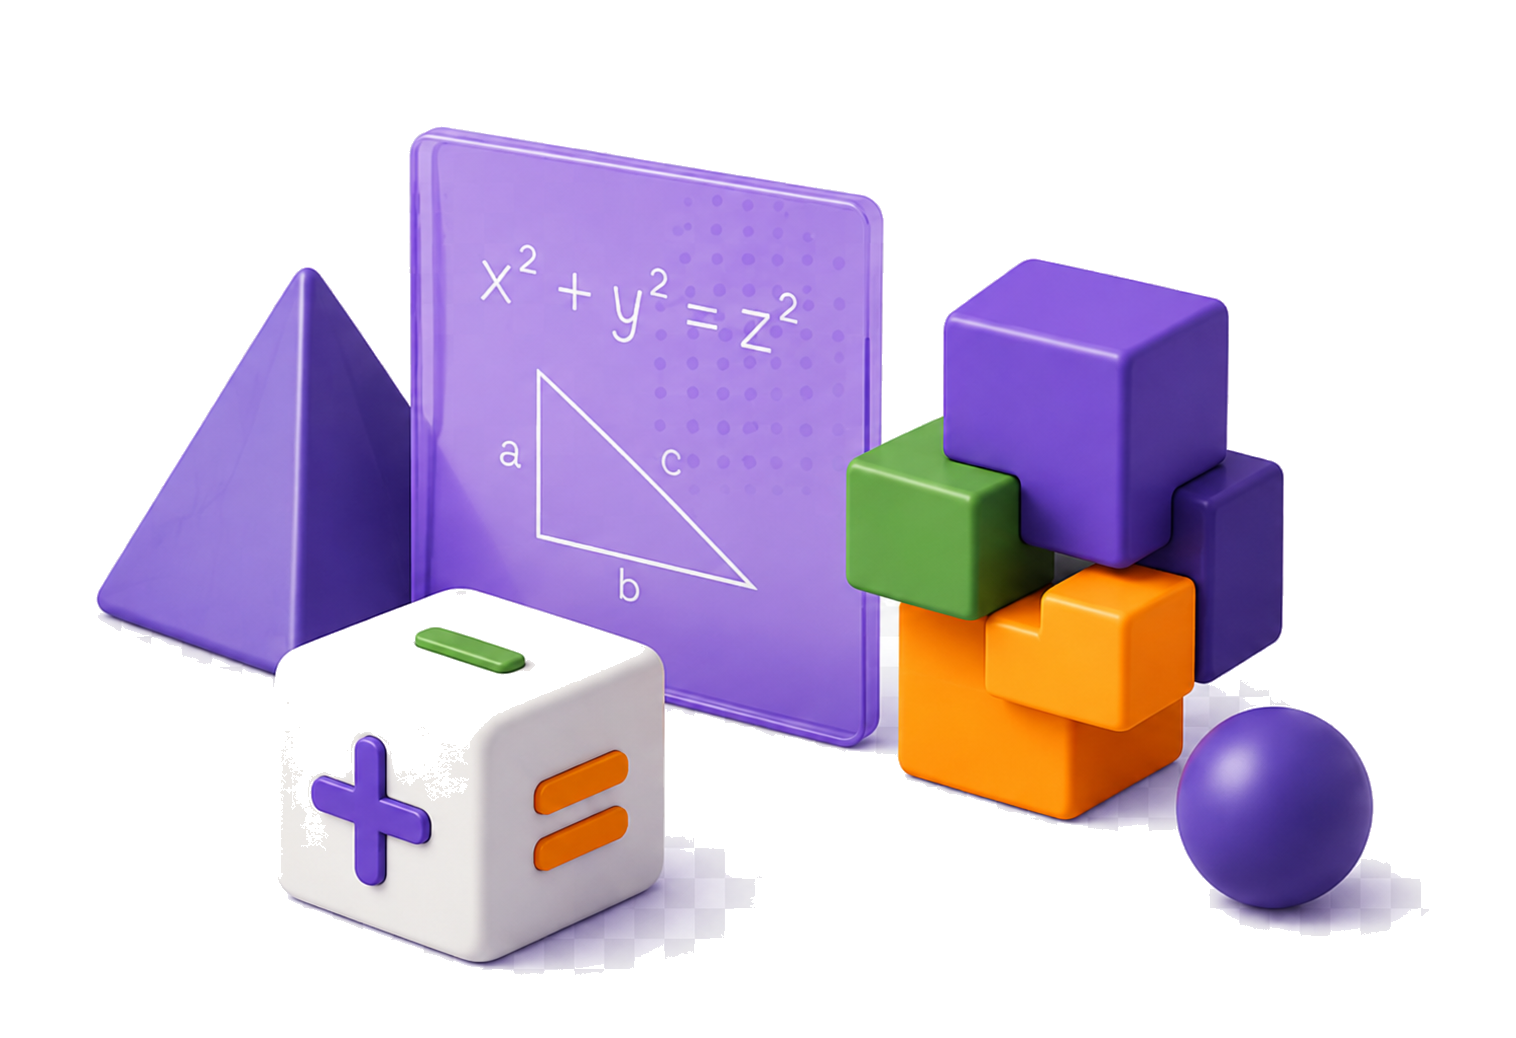
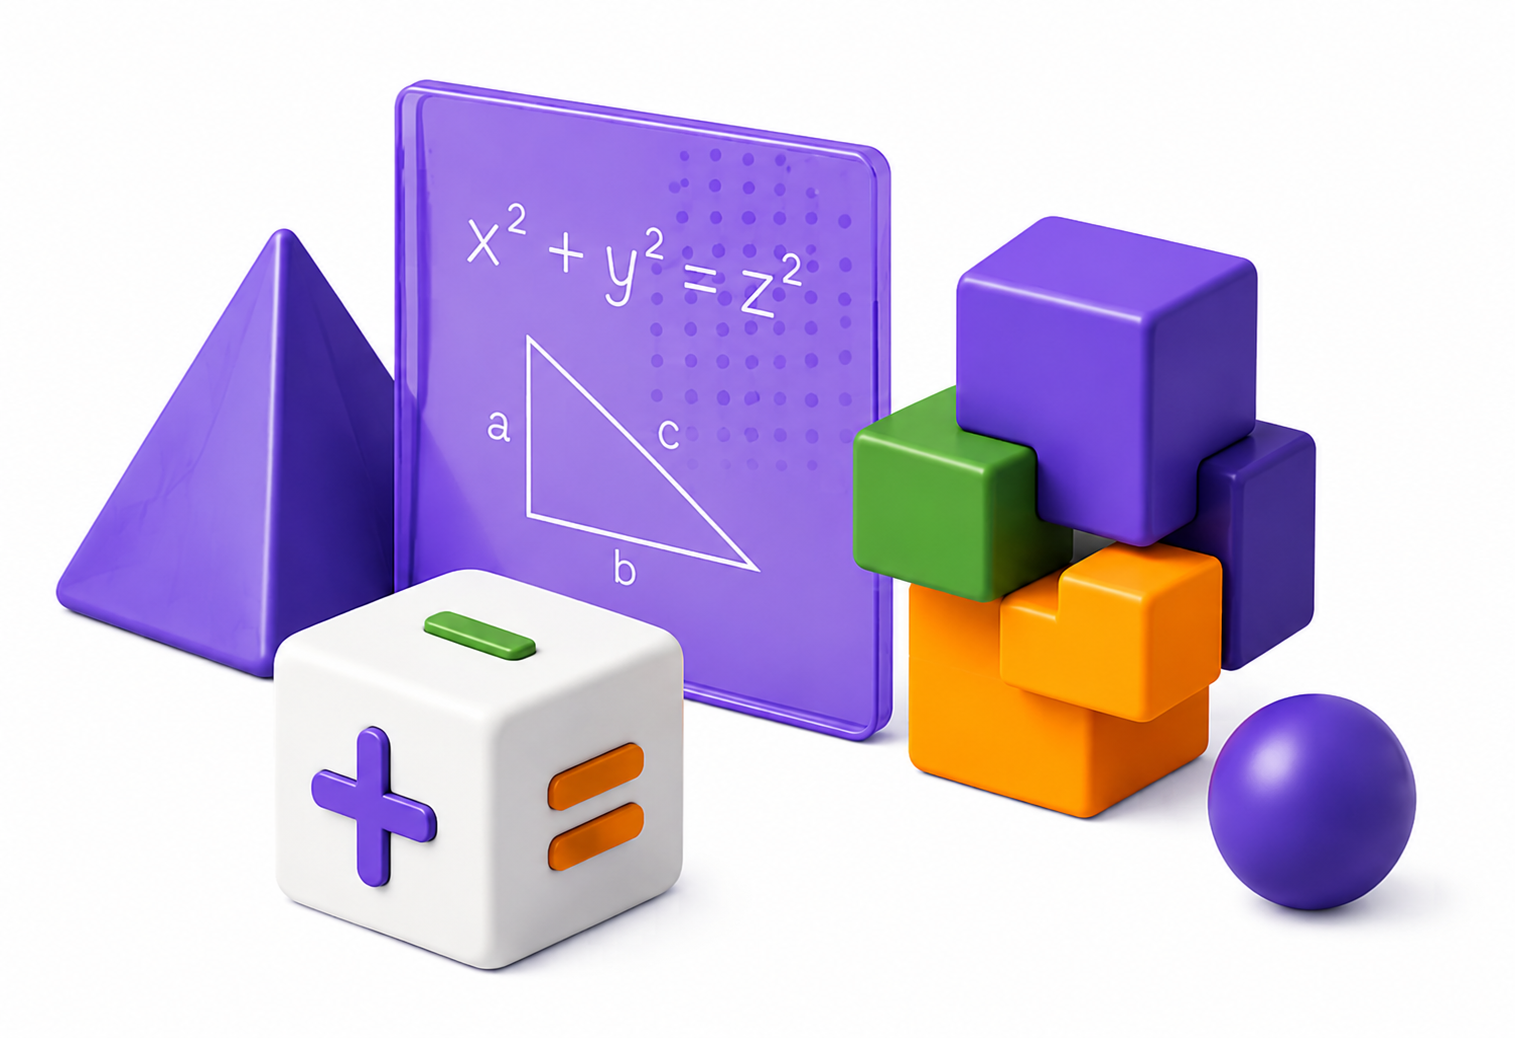
samostoyatelnaya-oplata-osen: новая иллюстрация героя, 3D-иконки программ, оранжевые кнопки
- Герой: чистая иллюстрация с мягким растворением краёв и скруглением
- Выделен цветом заголовок, широкая оранжевая кнопка «Выбрать программу»
- Первая фраза подзаголовка — в одну строку; убран лишний текст блока программ
- Белый фон страницы
- Карточки программ: 3D-иконки, все кнопки «Оплатить сентябрь» оранжевые с градиентом

Changed region(s): [[0.031, 0.0617, 0.9617, 0.9557], [0.1861, 0.8632, 0.2482, 0.894]]

diff --git a/src/pages/samostoyatelnaya-oplata-osen/Page.jsx b/src/pages/samostoyatelnaya-oplata-osen/Page.jsx
@@ -25,35 +25,14 @@ const NAV = [
 ]
 
 /* ── SVG-иконки для карточек программ ── */
-const ICONS = {
-  abacus: (
-    <svg viewBox="0 0 24 24" fill="none" aria-hidden="true"><rect x="3" y="4" width="18" height="16" rx="2" stroke="currentColor" strokeWidth="1.8"/><path d="M3 10h18M3 15h18" stroke="currentColor" strokeWidth="1.8"/><circle cx="8" cy="7" r="1.4" fill="currentColor"/><circle cx="13" cy="7" r="1.4" fill="currentColor"/><circle cx="10" cy="12.5" r="1.4" fill="currentColor"/><circle cx="15" cy="12.5" r="1.4" fill="currentColor"/><circle cx="7" cy="17.5" r="1.4" fill="currentColor"/><circle cx="16" cy="17.5" r="1.4" fill="currentColor"/></svg>
-  ),
-  backpack: (
-    <svg viewBox="0 0 24 24" fill="none" aria-hidden="true"><path d="M6 9a6 6 0 0 1 12 0v9a2 2 0 0 1-2 2H8a2 2 0 0 1-2-2V9z" stroke="currentColor" strokeWidth="1.8" strokeLinejoin="round"/><path d="M9 5.5a3 3 0 0 1 6 0" stroke="currentColor" strokeWidth="1.8" strokeLinecap="round"/><path d="M9 13h6v4H9z" stroke="currentColor" strokeWidth="1.8" strokeLinejoin="round"/></svg>
-  ),
-  pie: (
-    <svg viewBox="0 0 24 24" fill="none" aria-hidden="true"><circle cx="12" cy="12" r="8.5" stroke="currentColor" strokeWidth="1.8"/><path d="M12 12V3.5A8.5 8.5 0 0 1 19.5 9L12 12z" fill="currentColor"/></svg>
-  ),
-  cap: (
-    <svg viewBox="0 0 24 24" fill="none" aria-hidden="true"><path d="M12 4L2 8.5 12 13l10-4.5L12 4z" stroke="currentColor" strokeWidth="1.8" strokeLinejoin="round"/><path d="M6 10.5V15c0 1.5 2.7 3 6 3s6-1.5 6-3v-4.5" stroke="currentColor" strokeWidth="1.8" strokeLinecap="round" strokeLinejoin="round"/><path d="M21 9v4" stroke="currentColor" strokeWidth="1.8" strokeLinecap="round"/></svg>
-  ),
-  target: (
-    <svg viewBox="0 0 24 24" fill="none" aria-hidden="true"><circle cx="12" cy="12" r="8.5" stroke="currentColor" strokeWidth="1.8"/><circle cx="12" cy="12" r="4.8" stroke="currentColor" strokeWidth="1.8"/><circle cx="12" cy="12" r="1.6" fill="currentColor"/></svg>
-  ),
-  clipboard: (
-    <svg viewBox="0 0 24 24" fill="none" aria-hidden="true"><rect x="5" y="4" width="14" height="17" rx="2" stroke="currentColor" strokeWidth="1.8"/><path d="M9 4a1.5 1.5 0 0 1 1.5-1.5h3A1.5 1.5 0 0 1 15 4v1H9V4z" stroke="currentColor" strokeWidth="1.8" strokeLinejoin="round"/><path d="M8.5 11l1.5 1.5 2.5-2.5M8.5 16l1.5 1.5 2.5-2.5" stroke="currentColor" strokeWidth="1.8" strokeLinecap="round" strokeLinejoin="round"/></svg>
-  ),
-}
-
 /* ── Программы по математике ── */
 const PROGRAMS = [
-  { cls: 'violet', icon: 'abacus',    title: '1–4 классы',            desc: 'Математика + развитие математического мышления', href: '#' },
-  { cls: 'green',  icon: 'backpack',  title: '5–8 классы',            desc: 'Сильная школьная база и работа с проблемами',    href: '#' },
-  { cls: 'orange', icon: 'pie',       title: '9 класс',               desc: 'Математика + подготовка к ОГЭ',                  href: '#' },
-  { cls: 'violet', icon: 'cap',       title: '10 класс',              desc: 'Математика и систематизация знаний',             href: '#' },
-  { cls: 'green',  icon: 'target',    title: '11 класс — ЕГЭ база',   desc: 'Подготовка к базовому ЕГЭ',                      href: '#' },
-  { cls: 'orange', icon: 'clipboard', title: '11 класс — ЕГЭ профиль', desc: 'Подготовка к профильному ЕГЭ',                  href: '#' },
+  { img: 'prog-abacus',    title: '1–4 классы',            desc: 'Математика + развитие математического мышления', href: '#' },
+  { img: 'prog-backpack',  title: '5–8 классы',            desc: 'Сильная школьная база и работа с проблемами',    href: '#' },
+  { img: 'prog-pie',       title: '9 класс',               desc: 'Математика + подготовка к ОГЭ',                  href: '#' },
+  { img: 'prog-cap',       title: '10 класс',              desc: 'Математика и систематизация знаний',             href: '#' },
+  { img: 'prog-target',    title: '11 класс — ЕГЭ база',   desc: 'Подготовка к базовому ЕГЭ',                      href: '#' },
+  { img: 'prog-clipboard', title: '11 класс — ЕГЭ профиль', desc: 'Подготовка к профильному ЕГЭ',                  href: '#' },
 ]
 
 /* ── Как проходит запись ── */
@@ -213,9 +192,11 @@ export default function Page() {
         <div className="so-wrap so-hero__inner">
           <div className="so-hero__copy">
             <span className="so-hero__eyebrow">{typo('Самостоятельная оплата занятий')}</span>
-            <h1 className="so-hero__title">{typo('Запись на осень открыта')}</h1>
+            <h1 className="so-hero__title">
+              {typo('Запись на ')}<span className="so-hero__accent">{typo('осень')}</span>{typo(' открыта')}
+            </h1>
             <p className="so-hero__sub">
-              {typo('Выберите программу для ребёнка и оплатите сентябрь онлайн. ')}
+              <span className="so-hero__sub-line">{typo('Выберите программу для ребёнка и оплатите сентябрь онлайн.')}</span>{' '}
               {typo('Математика 1–11 классы, ОГЭ, ЕГЭ и дополнительные предметы.')}
             </p>
 
@@ -230,7 +211,7 @@ export default function Page() {
             </div>
 
             <div className="so-hero__actions">
-              <a href="#programs" className="so-btn so-btn--primary">Выбрать программу →</a>
+              <a href="#programs" className="so-btn so-btn--orange">Выбрать программу →</a>
             </div>
 
             <p className="so-hero__fine">
@@ -245,7 +226,7 @@ export default function Page() {
               className="so-hero__img"
               src="/znarnia/images/math-hero-scene.png"
               alt="Математические фигуры и формула"
-              width="1516"
+              width="1515"
               height="1038"
               loading="eager"
               decoding="async"
@@ -260,15 +241,12 @@ export default function Page() {
           <h2 className="so-section__title">
             <span className="so-section__num">1.</span> {typo('Выберите программу по математике')}
           </h2>
-          <p className="so-section__lead">
-            {typo('Оплатить сентябрь можно сразу. Кнопка «Подробнее» ведёт на отдельный лендинг программы.')}
-          </p>
 
           <div className="so-cards">
             {PROGRAMS.map((p) => (
-              <article key={p.title} className={`so-card so-card--${p.cls}`}>
+              <article key={p.title} className="so-card">
                 <div className="so-card__head">
-                  <span className="so-card__icon" aria-hidden="true">{ICONS[p.icon]}</span>
+                  <img className="so-card__icon" src={`/znarnia/images/${p.img}.png`} alt="" width="408" height="412" loading="lazy" decoding="async" />
                   <div className="so-card__heading">
                     <h3 className="so-card__title">{typo(p.title)}</h3>
                     <p className="so-card__desc">{typo(p.desc)}</p>

diff --git a/src/pages/samostoyatelnaya-oplata-osen/page.css b/src/pages/samostoyatelnaya-oplata-osen/page.css
@@ -54,15 +54,28 @@ html { scroll-behavior: smooth; }
 .so-btn--primary:hover { transform: translateY(-2px); filter: brightness(1.05); }
 .so-btn--primary:active { transform: translateY(1px); }
 
-/* карточная кнопка оплаты */
+/* оранжевая кнопка с градиентом */
+.so-btn--orange {
+  background: linear-gradient(135deg, #fb923c 0%, #f97316 55%, #ea580c 100%);
+  color: #fff;
+  box-shadow: 0 14px 30px -10px rgba(234, 88, 12, 0.45);
+}
+.so-btn--orange:hover {
+  transform: translateY(-2px);
+  filter: brightness(1.05);
+  box-shadow: 0 16px 34px -10px rgba(234, 88, 12, 0.55);
+}
+.so-btn--orange:active { transform: translateY(1px); }
+
+/* карточная кнопка оплаты — оранжевая с градиентом */
 .so-btn--pay {
-  background: linear-gradient(150deg, #8b5cf6 0%, #6d28d9 100%);
+  background: linear-gradient(135deg, #fb923c 0%, #f97316 55%, #ea580c 100%);
   color: #fff;
   font-size: 14px;
   padding: 12px 18px;
-  box-shadow: 0 10px 22px -12px rgba(109, 40, 217, 0.6);
+  box-shadow: 0 10px 22px -12px rgba(234, 88, 12, 0.5);
 }
-.so-btn--pay:hover { transform: translateY(-2px); filter: brightness(1.05); }
+.so-btn--pay:hover { transform: translateY(-2px); filter: brightness(1.05); box-shadow: 0 12px 26px -12px rgba(234, 88, 12, 0.6); }
 
 /* второстепенная «Подробнее» */
 .so-btn--link {
@@ -234,12 +247,19 @@ html { scroll-behavior: smooth; }
   text-transform: uppercase;
   margin-bottom: 16px;
 }
+.so-hero__accent { color: #f97316; }
 .so-hero__sub {
   font-size: clamp(15px, 2.4vw, 18px);
   line-height: 1.55;
   color: var(--so-text);
-  max-width: 520px;
+  max-width: 560px;
   margin-bottom: 20px;
+}
+/* первая фраза — в одну строку на широких экранах */
+.so-hero__sub-line { display: inline; }
+@media (min-width: 1000px) {
+  .so-hero__sub { max-width: none; }
+  .so-hero__sub-line { display: block; white-space: nowrap; }
 }
 .so-hero__note {
   display: flex;
@@ -250,9 +270,10 @@ html { scroll-behavior: smooth; }
   border-radius: 16px;
   padding: 14px 18px;
   box-shadow: 0 14px 32px -22px rgba(76, 29, 149, 0.4);
-  max-width: 480px;
+  max-width: 560px;
   margin-bottom: 22px;
 }
+@media (min-width: 1000px) { .so-hero__note { max-width: none; } }
 .so-hero__note-icon {
   flex-shrink: 0;
   display: grid;
@@ -269,6 +290,13 @@ html { scroll-behavior: smooth; }
 .so-hero__note-text span { font-size: 14px; color: var(--so-muted); }
 
 .so-hero__actions { margin-bottom: 16px; }
+.so-hero__actions .so-btn {
+  width: 100%;
+  max-width: 560px;      /* по ширине текста/плашки над кнопкой */
+  padding: 17px 24px;
+  font-size: 16px;
+}
+@media (min-width: 1000px) { .so-hero__actions .so-btn { max-width: none; } }
 .so-hero__fine { font-size: 13.5px; line-height: 1.5; color: var(--so-muted); }
 
 /* Иллюстрация справа */
@@ -281,8 +309,12 @@ html { scroll-behavior: smooth; }
   width: 100%;
   max-width: 560px;
   height: auto;
-  aspect-ratio: 1516 / 1038;
+  aspect-ratio: 1515 / 1038;
   object-fit: contain;
+  border-radius: 24px;
+  /* мягко растворяем белый фон картинки в фоне героя, чтобы границы не выделялись */
+  -webkit-mask-image: radial-gradient(135% 130% at 50% 46%, #000 68%, transparent 100%);
+  mask-image: radial-gradient(135% 130% at 50% 46%, #000 68%, transparent 100%);
 }
 
 /* ── SECTION HEADINGS ── */
@@ -295,11 +327,12 @@ html { scroll-behavior: smooth; }
 }
 .so-section__num { color: var(--so-purple-mid); }
 .so-section__lead {
-  font-size: 15px;
+  font-size: clamp(16px, 2vw, 19px);
+  font-weight: 600;
   line-height: 1.5;
-  color: var(--so-muted);
+  color: var(--so-text);
   margin-bottom: 26px;
-  max-width: 720px;
+  max-width: 780px;
 }
 
 /* ── ПРОГРАММЫ ── */
@@ -328,16 +361,11 @@ html { scroll-behavior: smooth; }
 .so-card__head { display: flex; gap: 14px; align-items: flex-start; }
 .so-card__icon {
   flex-shrink: 0;
-  display: grid;
-  place-items: center;
-  width: 52px;
-  height: 52px;
-  border-radius: 14px;
+  width: 62px;
+  height: 62px;
+  border-radius: 16px;
+  object-fit: contain;
 }
-.so-card__icon svg { width: 28px; height: 28px; }
-.so-card--violet .so-card__icon { background: var(--so-purple-soft); color: var(--so-purple); }
-.so-card--green  .so-card__icon { background: #dcfce7;             color: var(--so-green); }
-.so-card--orange .so-card__icon { background: #ffedd5;             color: var(--so-orange); }
 
 .so-card__heading { min-width: 0; }
 .so-card__title {
